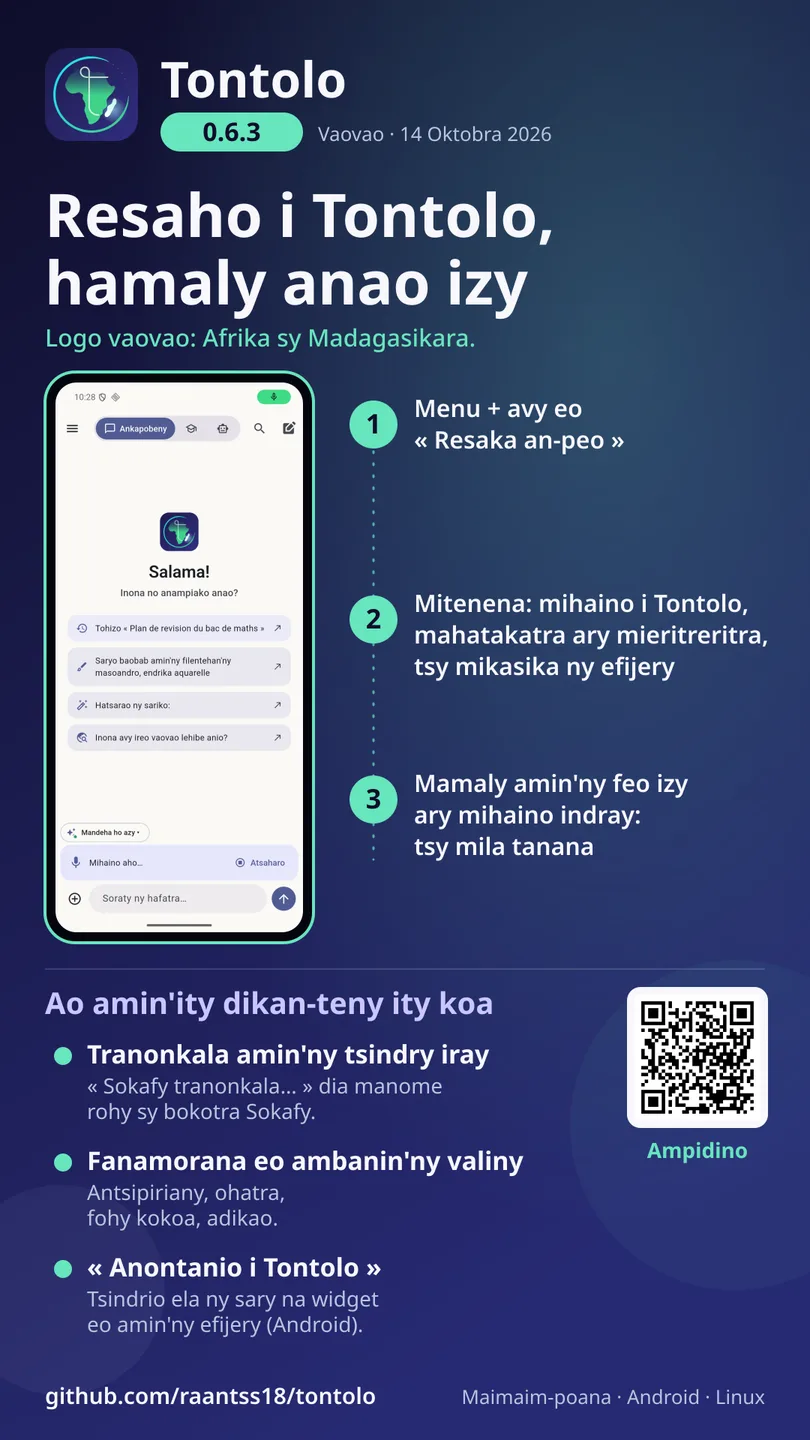
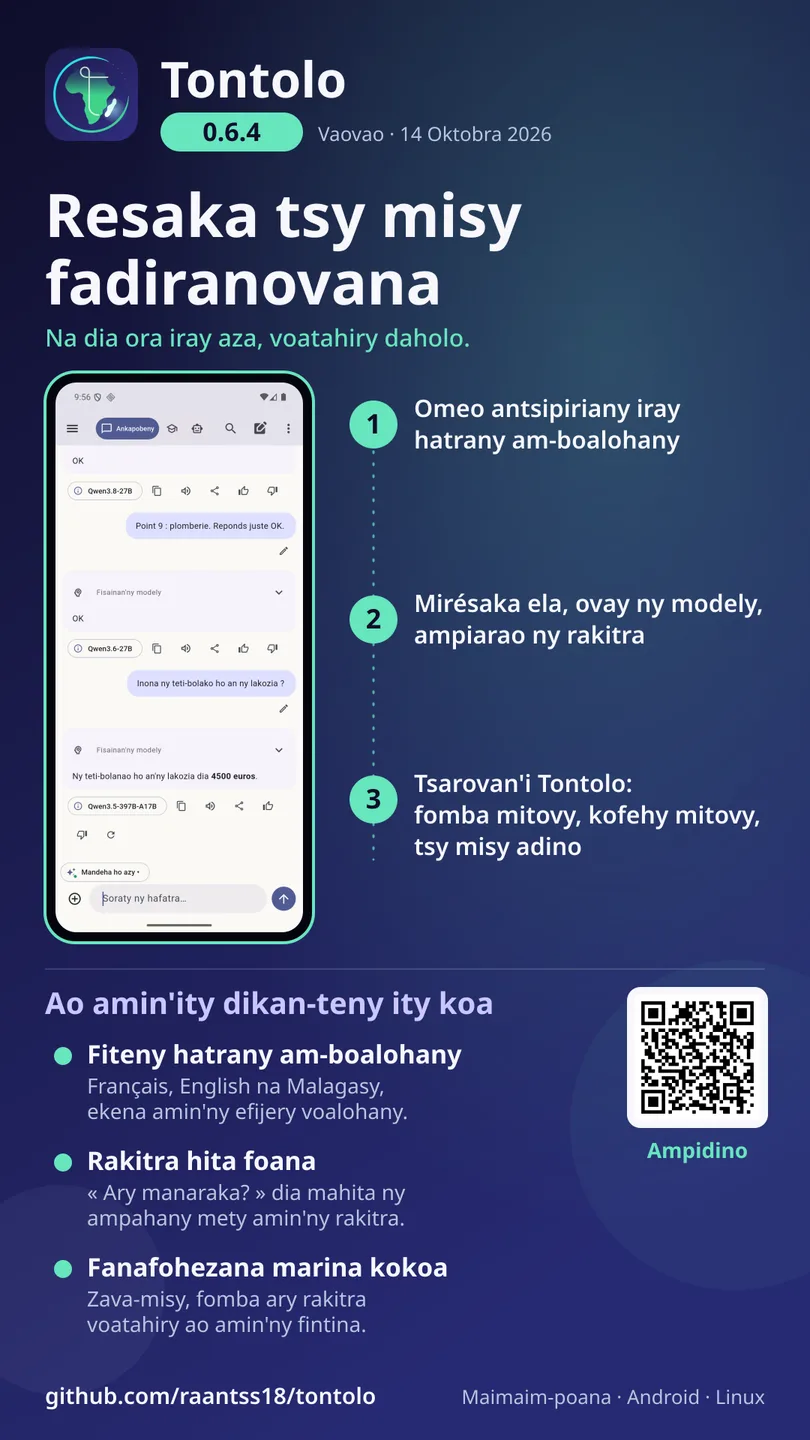
chore(release): v0.6.4
Mémoire de la discussion en cours, langue au premier lancement et choix à l'accueil, poster 0.6.4.

diff --git a/app/lib/core/whats_new.dart b/app/lib/core/whats_new.dart
@@ -14,6 +14,16 @@ class NewsItem {
 }
 
 const whatsNew = <String, List<NewsItem>>{
+  '0.6.4': [
+    NewsItem(Icons.psychology_outlined, 'Une discussion sans trou de mémoire',
+        'Même après une heure d\'échanges, Tontolo retrouve ce que vous avez dit au début, garde en tête vos fichiers joints (même pour « et la suite ? ») et conserve le même ton, quel que soit le modèle qui répond.',
+        'A conversation with no memory gaps', 'Even after an hour of chatting, Tontolo remembers what you said at the start, keeps your attached files in mind (even for “and what next?”) and keeps the same tone, whichever model answers.',
+        mg: 'Resaka tsy misy fadiranovana', mgText: 'Na dia ampahefany iray aza ny resaka, tsarovan\'i Tontolo ny voalazanao tamin\'ny voalohany, tsy adinony ny rakitra nampiarahinao (na amin\'ny « ary manaraka? ») ary tsy miova ny fombany, na modely inona na inona no mamaly.'),
+    NewsItem(Icons.language, 'Votre langue dès l\'accueil',
+        'Tontolo démarre dans la langue de votre téléphone (français, English, Malagasy) et vous laisse la confirmer dès l\'accueil.',
+        'Your language from the start', 'Tontolo starts in your phone\'s language (français, English, Malagasy) and lets you confirm it on the welcome screen.',
+        mg: 'Ny fiteninao hatrany am-boalohany', mgText: 'Manomboka amin\'ny fiteny ao amin\'ny findainao i Tontolo (français, English, Malagasy) ary ahafahanao manamafy izany any amin\'ny fandraisana.'),
+  ],
   '0.6.3': [
     NewsItem(Icons.graphic_eq, 'Parlez à Tontolo, il vous répond',
         'Menu + › « Conversation vocale » : Tontolo vous écoute, comprend, répond à voix haute puis réécoute, mains libres. Sous chaque réponse, des raccourcis : plus de détails, un exemple, plus court, traduire.',

diff --git a/app/lib/core/updater.dart b/app/lib/core/updater.dart
@@ -23,7 +23,7 @@ import '../l10n/strings.dart';
 import 'prefs.dart';
 import 'update_key.dart';
 
-const appVersion = '0.6.3';
+const appVersion = '0.6.4';
 const repo = 'raantss18/tontolo';
 
 enum UpdateStatus { idle, checking, downloading, ready, failed, upToDate }

diff --git a/core/tontolo/__init__.py b/core/tontolo/__init__.py
@@ -1,3 +1,3 @@
 """Tontolo — hub d'IA libre qui route vers le meilleur modèle gratuit disponible."""
 
-__version__ = "0.6.3"
+__version__ = "0.6.4"

diff --git a/CHANGELOG.md b/CHANGELOG.md
@@ -5,6 +5,8 @@ Format : [Keep a Changelog](https://keepachangelog.com/fr/1.1.0/), versionnement
 
 ## [Non publié]
 
+## [0.6.4] - 2026-10-14
+
 ### Ajouté
 - Mémoire d'une longue discussion : même après une heure d'échanges, Tontolo retrouve ce qui a été
   dit au début du fil (rappel des passages anciens pertinents), garde en tête les fichiers
